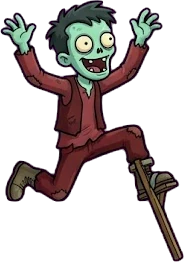
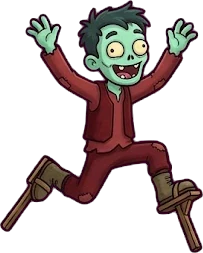
Bog' himoyasi: zombilar yumshoqroq uslubda qayta chizildi
Claude-Session: https://claude.ai/code/session_017as4gJrNETuDbAwsfzAAdW

diff --git a/bog/index.html b/bog/index.html
@@ -271,7 +271,7 @@ function icon(t,x,y,s){g.save();g.translate(x,y);g.scale(s,s);drawPlant(t,0,0,t=
 
 // ================= RASMLI QAHRAMONLAR =================
 // O'simliklar tayyor rasmlardan chiziladi; rasm yuklanmagan bo'lsa eski chizma ishlaydi.
-const IMG={},IMGV=7;for(const n of ['pea0','pea1','twin0','twin1','ice0','ice1','sun0','sun1','nut0','nut1','nut2','xnut','bomb0','bomb1','mine0','mine1','snap0','snap1','shot','shoti','zb0','zb1','zbe','zf0','zf1','zs0','zs1','zsj','zr0','zr1','zre','sunc','pot0','pot1','pot2','bas0','bas1','shovel','cart0','cart1','boom','bg','ui_card','ui_bar','ui_b1','ui_b2','ui_panel','ui_pause','ui_plate']){const im=new Image();im.onload=()=>{IMG[n]=im};im.src='img/'+n+'.webp?v='+IMGV}
+const IMG={},IMGV=8;for(const n of ['pea0','pea1','twin0','twin1','ice0','ice1','sun0','sun1','nut0','nut1','nut2','xnut','bomb0','bomb1','mine0','mine1','snap0','snap1','shot','shoti','zb0','zb1','zbe','zf0','zf1','zs0','zs1','zsj','zr0','zr1','zre','sunc','pot0','pot1','pot2','bas0','bas1','shovel','cart0','cart1','boom','bg','ui_card','ui_bar','ui_b1','ui_b2','ui_panel','ui_pause','ui_plate']){const im=new Image();im.onload=()=>{IMG[n]=im};im.src='img/'+n+'.webp?v='+IMGV}
 // rasmni pastki o'rtasi (x,y) nuqtaga, balandligi h qilib chizadi
 function spr(n,x,y,h,o){const im=IMG[n];if(!im)return false;const w=h*im.width/im.height;g.save();g.translate(x,y);if(o){if(o.rot)g.rotate(o.rot);if(o.sx||o.sy)g.scale(o.sx||1,o.sy||1)}g.drawImage(im,-w/2,-h,w,h);g.restore();return true}
 const drawPlant0=drawPlant,drawNut0=drawNut;

diff --git a/index.html b/index.html
@@ -3985,7 +3985,7 @@ function viewSp(B,i){
   $('#spback').onclick=()=>{srHush();clearInterval(spTimer);srView='menu';viewSert()};
 }
 
-const APP_VER='20261119g';
+const APP_VER='20261119h';
 (function(){try{fetch('version.json?t='+Date.now(),{cache:'no-store'}).then(r=>r.ok?r.json():null).then(j=>{if(!j||!j.v||j.v===APP_VER)return;
   const k='hv_'+j.v;if(sessionStorage.getItem(k))return;sessionStorage.setItem(k,1);const u=new URL(location.href);u.searchParams.set('v',j.v);location.replace(u.toString())}).catch(()=>{})}catch(e){}})();
 // oflayn rejim: ilova va o'yinlar internetsiz ham ochiladi
